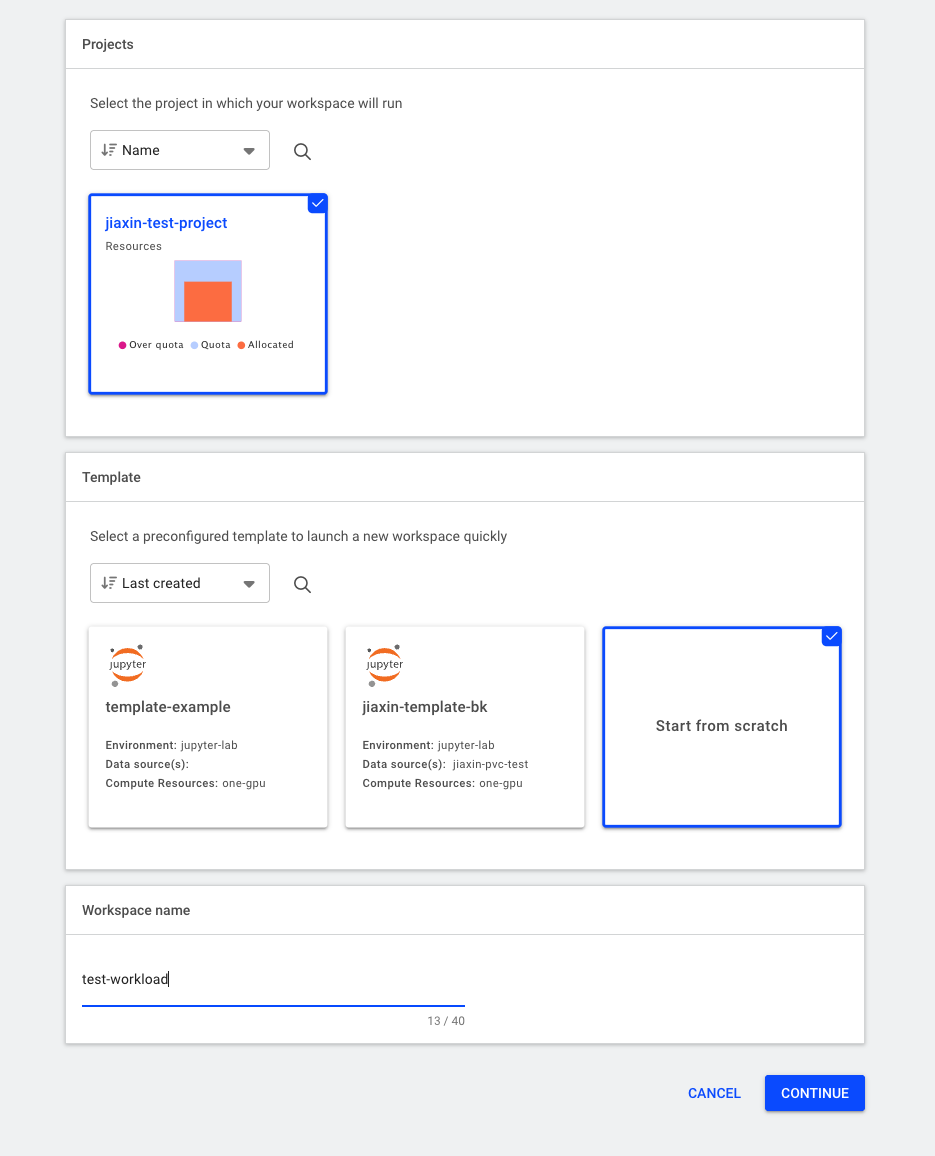
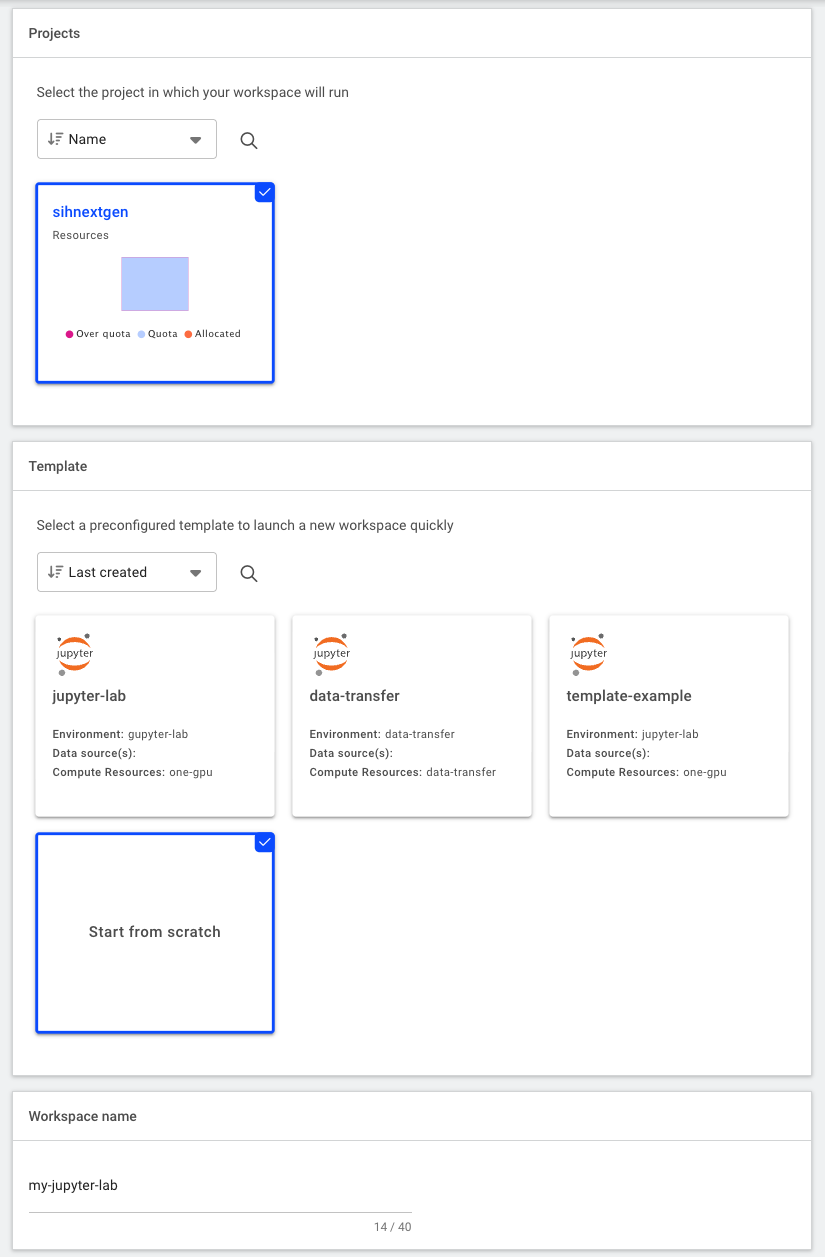
add data sources section. edit jupyter tutorial

diff --git a/notebooks/jupyter_tutorial.md b/notebooks/jupyter_tutorial.md
@@ -6,32 +6,47 @@ Generally, the minimum requirements you need before creating the workload includ
 * Being granted permission to an active project
 * An [environment](environments.md) to run such job
 * Have created a data source, e.g. a PVC, to store your input and output data
-* Understand the compute resources you need to run the job and have the option available under Compute Resources
+* Understand the compute resources you need to run the job and have the option available under "Compute Resources"
 
 In this tutorial, we will create a simple Jupyter Lab workload that allows you to run Jupyter notebooks interactively on the SIH GPU cluster.
 
 ## Step 1: Create a workload
 Navigate to the Workloads section of the platform and click on the "NEW WORKLOAD" button. Select "Workspace" from the dropdown menu.
+
 ![New workload](../fig/workload_create_workspace.png)
 
 ## Step 2: Configure the workload from scratch
-Fill in the necessary details for your workload:
+Define the necessary information for your workload:
 
 * Under "Projects" select the project it will be linked to
-* Under "Templates" select "Start from sratch" (do not use any existing template)
+* Under "Templates" select "Start from sratch" (*i.e.* do not use any existing template)
+* Provide a descriptive name for the workload
+
 ![Project and Template](../fig/workload_definition.png)
-* Under "Environment" select the Jupyter Lab container environment you want to run
+
+* Select an environment to create the container. The SIH team has prepared a [pre-built image](https://hub.docker.com/r/sydneyinformaticshub/dgx-interactive-jupyterlab) (`sydneyinformatics/dgx-interactive-jupyterlab`) with Jupyter Lab and commonly used data science packages installed.
+
 ![Software environment](../fig/workload_environment.png)
-* Under "Compute resource" select the resources required.
+
+* Select the amount of compute resources to run the workload. In this tutorial, we will select the `small-fraction` option that requires 1 H200 GPU with 10% of its memory (~14GB).
+
 ![Compute resource](../fig/workload_comp_resource.png)
 
-There are other optional components you can add to a workload depending on the needs of your task. These include:
+* Configure the [data source](./data_sources.md) to be mounted to the container. Here we select the default PVC created for the project. The mount path inside the container is set to `/scratch/<dashr_project_shortcode>`.
 
-* Volume (i.e. temporary data storage)
-* Data Sources (e.g. PVCs)
-* Other general settings
-![](../fig/workload_additional_setups.png)
+![Data resource](../fig/workload_datasource.png)
 
-## Optional: Create a workload from a template
-Besides the project allocation, all the other workload components can be populated from a pre-defined template:
-![Create workload from existing template](../fig/workload_template.png)
+* Lastly, Click on "CREATE WORKLOAD" to submit the workload to the cluster.
+
+## Step 3: Connect to Jupyter Lab
+
+When the status changes to "Running", you can access the Jupyter Lab interface by selecting "Jupyter" under "CONNECT".
+
+![Connect to the Jupyter Lab interface](../fig/workload_connect_jupyter.png)
+
+## (Optional) Step 4: Inspect system logs
+You can review the system logs to access details about event history, workload metrics, and real-time container output. This information is especially useful for debugging issues when a workload fails to start.
+
+![Workload logs](../fig/workload_logs.png)
+
+

diff --git a/notebooks/data_sources.md b/notebooks/data_sources.md
@@ -1,1 +1,8 @@
 # Data Sources
+Data sources in Run:ai allow you to connect additional storage systems to your Run:ai projects, enabling seamless access to datasets required for your workloads. Run:ai supports various types of data sources, including PVC ([Persistent Volume Claim](https://kubernetes.io/docs/concepts/storage/persistent-volumes/)), NFS, S3-compatible storage, and more.
+
+When a Run:ai project is created, a default data source (PVC) is automatically set up for this project. You can find the data source under the "Data Sources", listed as `pvc-<dashr_project_shortcode>`:
+
+![Default Data Source](../fig/default_data_source.png)
+
+This dedicated persistent storage can be accessable from any workload running within the same project. The default mount path inside the container is `/scratch/<dashr_project_shortcode>`. It is especially useful for storing intermediate results, model checkpoints, and [uploading data to the cluster](./data_transfer.md) from external sources (*e.g.* RDS).
